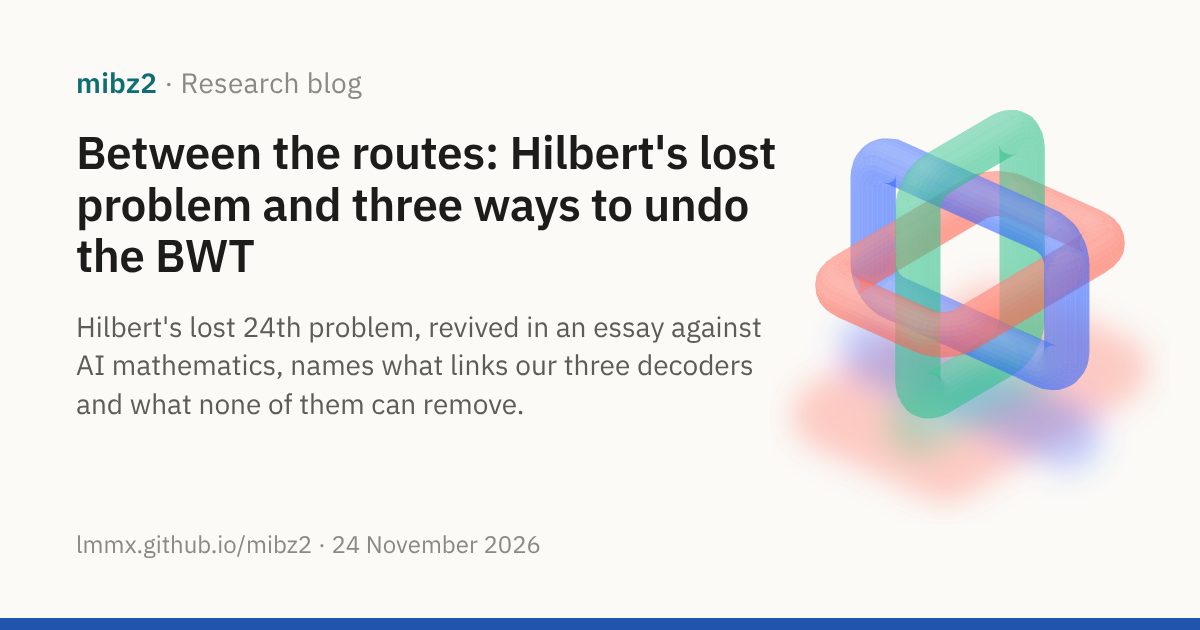
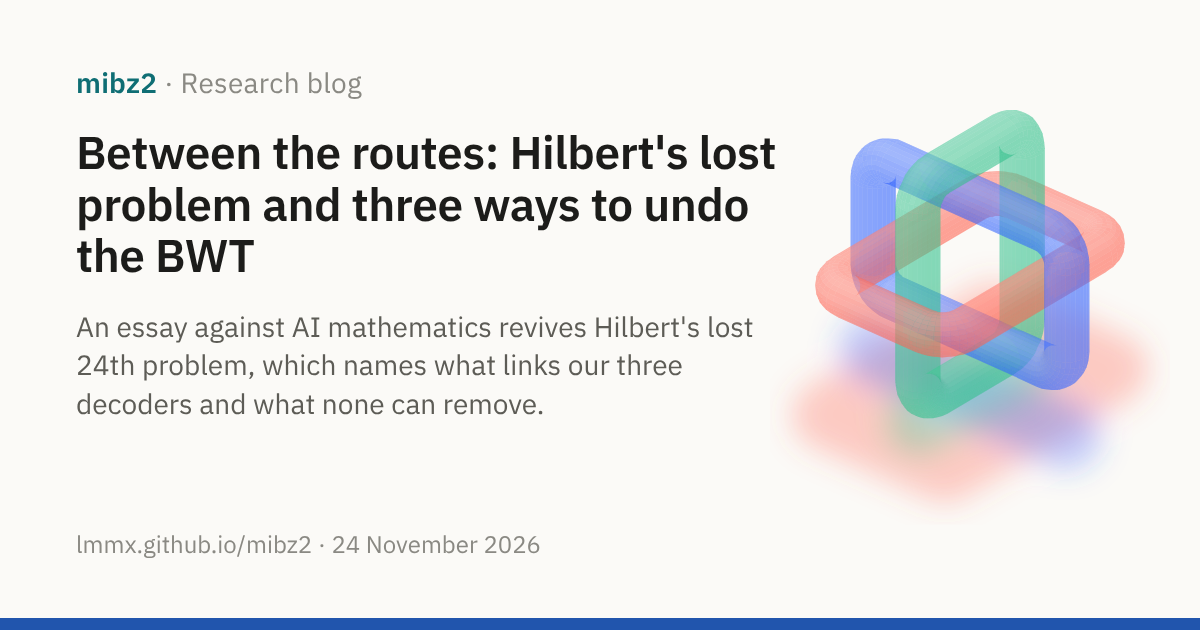
blog(between-the-routes): a dek with one break, for check_prose

Changed region(s): [[0.0617, 0.4825, 0.6475, 0.6032], [0.0617, 0.6333, 0.4625, 0.6635]]

diff --git a/docs/site/blog/index.md b/docs/site/blog/index.md
@@ -8,7 +8,7 @@ What mibz2's experiments are finding, and where they go next. The evidence behin
 post is in the [journals](../background/journals.md) and the pull requests they link.
 
 <div class="post-list">
-<a class="post-card" href="2026-11-24-between-the-routes.md"><img src="../assets/social/blog-2026-11-24-between-the-routes.png" alt="" loading="lazy"><span class="post-card-text"><span class="post-card-date">24 November 2026 · Meta</span><span class="post-card-title">Between the routes: Hilbert's lost problem and three ways to undo the BWT</span><span class="post-card-dek">Hilbert's lost 24th problem, revived in an essay against AI mathematics, names what links our three decoders and what none of them can remove.</span></span></a>
+<a class="post-card" href="2026-11-24-between-the-routes.md"><img src="../assets/social/blog-2026-11-24-between-the-routes.png" alt="" loading="lazy"><span class="post-card-text"><span class="post-card-date">24 November 2026 · Meta</span><span class="post-card-title">Between the routes: Hilbert's lost problem and three ways to undo the BWT</span><span class="post-card-dek">An essay against AI mathematics revives Hilbert's lost 24th problem, which names what links our three decoders and what none can remove.</span></span></a>
 <a class="post-card" href="2026-11-22-decompression-is-the-harder-problem.md"><img src="../assets/social/blog-2026-11-22-decompression-is-the-harder-problem.png" alt="" loading="lazy"><span class="post-card-text"><span class="post-card-date">22 November 2026 · Meta</span><span class="post-card-title">Playing the hand you're dealt: in conversation with Thomas Murphy</span><span class="post-card-dek">A discussion of the mibz2 swarm, and why the Hutter Prize has it backwards: it rewards whoever stacks the deck best, when real data deals you the hand.</span></span></a>
 <a class="post-card" href="2026-11-22-correctness-is-uniform-cost-is-not.md"><img src="../assets/social/blog-2026-11-22-correctness-is-uniform-cost-is-not.png" alt="" loading="lazy"><span class="post-card-text"><span class="post-card-date">22 November 2026 · Research in progress</span><span class="post-card-title">Correctness is uniform, cost is not</span><span class="post-card-dek">Every route in mibz2's bzip2 decoder is exact on every block, but cost varies from block to block and so we hunt for speed in many places.</span></span></a>
 <a class="post-card" href="2026-11-22-two-centuries-of-tools.md"><img src="../assets/social/blog-2026-11-22-two-centuries-of-tools.png" alt="" loading="lazy"><span class="post-card-text"><span class="post-card-date">22 November 2026 · Meta</span><span class="post-card-title">Two centuries of tools: a claimed Riemann proof's toolkit, and our search</span><span class="post-card-dek">A claimed Riemann proof built one new idea on fifty older tools reaching back two centuries, so our research teams now look back as hard as forward.</span></span></a>

diff --git a/docs/site/blog/2026-11-24-between-the-routes.md b/docs/site/blog/2026-11-24-between-the-routes.md
@@ -1,7 +1,7 @@
 ---
 title: "Between the routes: Hilbert's lost problem and three ways to undo the BWT"
 image: assets/social/blog-2026-11-24-between-the-routes.png
-description: "Hilbert's lost 24th problem, revived in an essay against AI mathematics, names what links our three decoders and what none of them can remove."
+description: "An essay against AI mathematics revives Hilbert's lost 24th problem, which names what links our three decoders and what none can remove."
 ---
 
 <div class="post-hero" markdown>
@@ -13,7 +13,7 @@ description: "Hilbert's lost 24th problem, revived in an essay against AI mathem
 
 # Between the routes: Hilbert's lost problem and three ways to undo the BWT
 
-Hilbert's lost 24th problem, revived in an essay against AI mathematics, names what links our three decoders and what none of them can remove.
+An essay against AI mathematics revives Hilbert's lost 24th problem, which names what links our three decoders and what none can remove.
 {: .post-dek }
 
 24 November 2026 · 13 min read · [Meta](#6-where-the-question-stands)
